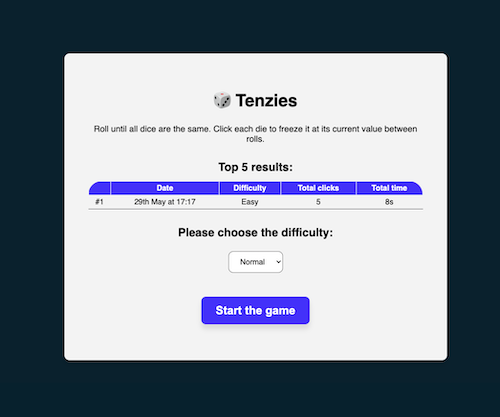
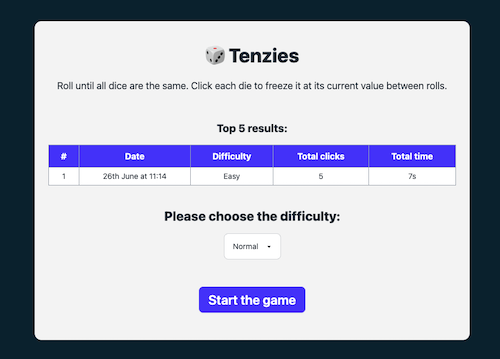
refactor: minor styles updates

diff --git a/src/Components/RecordsTable.tsx b/src/Components/RecordsTable.tsx
@@ -10,7 +10,7 @@ const RecordsTable: FC<{ data: GameRecord[] }> = ({ data: records }) => {
     <section
       data-testid="records-list"
       id="records-list"
-      className="mt-[35px] flex w-full flex-col items-center justify-center"
+      className="mt-[50px] flex w-full flex-col items-center justify-center"
     >
       <h2 className="mb-4 text-center text-xl font-extrabold">Top 5 results:</h2>
       <div
@@ -18,14 +18,20 @@ const RecordsTable: FC<{ data: GameRecord[] }> = ({ data: records }) => {
         className="relative w-full overflow-x-auto"
         style={{ WebkitOverflowScrolling: 'touch' }}
       >
-        <table id="records-table" className="table w-full border-collapse">
+        <table id="records-table" className="table table-sm">
           <thead className="bg-main-button text-main-die">
-            <tr className="text-center">
-              <th className="rounded-tl-[35px]"></th>
-              <th className="border-main-board-color border p-1.5 text-base">Date</th>
-              <th className="border-main-board-color border p-1.5 text-base">Difficulty</th>
-              <th className="border-main-board-color border p-1.5 text-base">Total clicks</th>
-              <th className="rounded-tr-[35px] text-base">Total time</th>
+            <tr className="border-separate text-center">
+              <th className="border-main-board-color border border-gray-400 text-base">#</th>
+              <th className="border-main-board-color border border-gray-400 text-base">Date</th>
+              <th className="border-main-board-color border border-gray-400 text-base">
+                Difficulty
+              </th>
+              <th className="border-main-board-color border border-gray-400 text-base">
+                Total clicks
+              </th>
+              <th className="border-main-board-color border border-gray-400 text-base">
+                Total time
+              </th>
             </tr>
           </thead>
           <tbody className="text-center">{recordsElements}</tbody>

diff --git a/src/Components/RecordElement.tsx b/src/Components/RecordElement.tsx
@@ -6,12 +6,14 @@ const RecordElement: FC<{ data: GameRecord; index: number }> = ({ data, index })
   const gameSessionTime = getGameSessionTime(data.date);
 
   return (
-    <tr className="record-element">
-      <td className="border-main-board-color border p-1.5">#{index + 1}</td>
-      <td className="border-main-board-color border p-1.5">{gameSessionTime}</td>
-      <td className="border-main-board-color border p-1.5">{capitalize(data.difficultyLabel)}</td>
-      <td className="border-main-board-color border p-1.5">{data.gameClicks}</td>
-      <td className="border-main-board-color border p-1.5">{data.gameTime}s</td>
+    <tr className="record-element bg-white">
+      <td className="border-main-board-color border border-gray-400 p-1.5">{index + 1}</td>
+      <td className="border-main-board-color border border-gray-400 p-1.5">{gameSessionTime}</td>
+      <td className="border-main-board-color border border-gray-400 p-1.5">
+        {capitalize(data.difficultyLabel)}
+      </td>
+      <td className="border-main-board-color border border-gray-400 p-1.5">{data.gameClicks}</td>
+      <td className="border-main-board-color border border-gray-400 p-1.5">{data.gameTime}s</td>
     </tr>
   );
 };

diff --git a/src/Components/index.tsx b/src/Components/index.tsx
@@ -112,7 +112,7 @@ const App: React.FC = () => {
   }
 
   return (
-    <>
+    <div className="flex min-h-svh justify-center bg-main-bg">
       <article className="relative flex w-6/12 max-w-[800px] flex-col flex-wrap justify-center self-center rounded-xl bg-main-board px-[50px] py-[75px] shadow-md xs:w-[95%] xl:m-[25px] xl:h-auto xl:w-[90%] xl:p-[25px]">
         {isGameStarted && !isGameWon && (
           <>
@@ -143,7 +143,7 @@ const App: React.FC = () => {
         )}
       </article>
       {isGameWon && <Confetti width={width} height={height} />}
-    </>
+    </div>
   );
 };
 export default App;

diff --git a/src/Components/screens/GameDescription.tsx b/src/Components/screens/GameDescription.tsx
@@ -17,7 +17,7 @@ const GameDescription: React.FC<GameDescriptionProps> = ({
 }) => (
   <>
     <Header>
-      <h1 className="mb-6 text-4xl font-extrabold leading-none">🎲 Tenzies</h1>
+      <h1 className="mb-6 mt-5 text-4xl font-extrabold leading-none">🎲 Tenzies</h1>
       <p className="text-lg">
         Roll until all dice are the same. Click each die to freeze it at its current value between
         rolls.

diff --git a/src/Components/RollDiceButton.tsx b/src/Components/RollDiceButton.tsx
@@ -6,7 +6,7 @@ const RollDiceButton: React.FC<{
 }> = ({ children, onClick }) => (
   <button
     data-testid="roll-dice-button"
-    className="btn btn-primary mx-auto my-0 mt-[50px] w-fit min-w-32 bg-main-button text-main-die"
+    className="btn btn-primary mx-auto my-[25px] mt-[50px] w-fit min-w-32 bg-main-button text-2xl text-main-die"
     onClick={onClick}
   >
     {children}

diff --git a/src/index.html b/src/index.html
@@ -7,8 +7,8 @@
     <link rel="stylesheet" href="./index.css" />
     <title>Tenzies Game [warm-up; React/TS]</title>
   </head>
-  <body class="h-lvh bg-main-bg">
-    <main id="root" class="flex h-full justify-center"></main>
+  <body>
+    <main id="root"></main>
     <script type="module" src="./App.tsx"></script>
   </body>
 </html>

diff --git a/tailwind.config.js b/tailwind.config.js
@@ -5,6 +5,7 @@ export default {
     screens: {
       xs: '320px',
       sm: '601px',
+      'xs-md': { min: '320px', max: '767px' },
       'sm-md': { min: '450px', max: '767px' },
       md: '768px',
       lg: '1024px',
